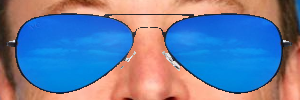
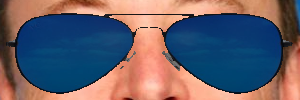
have sunglasses on elon musk lol

diff --git a/week_1/Script_file/4_Using_Arithmetic_Operations.py b/week_1/Script_file/4_Using_Arithmetic_Operations.py
@@ -3,58 +3,83 @@ import cv2
 import numpy as np
 from dataPath import DATA_PATH
 
+#define a global extra alpha to apply
+alpha = .5
 # Load the Face Image
-faceImagePath = DATA_PATH + "/images/musk.jpg"
-faceImage = cv2.imread(faceImagePath)
+pathToFace = DATA_PATH + "/images/musk.jpg"
+faceImage = cv2.imread(pathToFace)
 
 # Load the Sunglass image with Alpha channel
 # (http://pluspng.com/sunglass-png-1104.html)
-glassimagePath = DATA_PATH + "/images/sunglass.png"
-glassPNG = cv2.imread(glassimagePath,-1)
+pathToSunglasses = DATA_PATH + "/images/sunglass.png"
+sunglassesPNG = cv2.imread(pathToSunglasses, cv2.IMREAD_UNCHANGED)
 
 # Resize the image to fit over the eye region
-glassPNG = cv2.resize(glassPNG,(300,100))
-print("image Dimension ={}".format(glassPNG.shape))
+sunglassesPNG = cv2.resize(sunglassesPNG,(300,100))
+print("image Dimension ={}".format(sunglassesPNG.shape))
 
 # Separate the Color and alpha channels
-glassBGR = glassPNG[:,:,0:3]
-glassMask1 = glassPNG[:,:,3]
+sunglassBGR = sunglassesPNG[:,:,0:3]
+sunglassBGR = sunglassBGR / 255
+sunglassMaskAlpha = sunglassesPNG[:,:,3]
+sunglassMaskAlpha = (sunglassMaskAlpha / 255) * .5
 
 # Make the dimensions of the mask same as the input image.
 # Since Face Image is a 3-channel image, we create a 3 channel image for the mask
-glassMask = cv2.merge((glassMask1,glassMask1,glassMask1))
+sunGlassMask = cv2.merge((sunglassMaskAlpha,sunglassMaskAlpha,sunglassMaskAlpha))
 
-# Make the values [0,1] since we are using arithmetic operations
-glassMask = np.uint8(glassMask/255)
+#apply the alpha mask to the sunglasses
+sunGlassesWithAlpha = sunglassBGR * sunGlassMask
 
-# Make a copy
-faceWithGlassesArithmetic = faceImage.copy()
+cv2.imshow("sun glasses alpha",sunGlassMask  )
+cv2.imshow("sunglasses", sunGlassesWithAlpha)
 
-# Get the eye region from the face image
-eyeROI= faceWithGlassesArithmetic[150:250,140:440]
+# get the eye region of interest
+eyeROI = faceImage[150:250,140:440]
+eyeROI = eyeROI / 255
+cv2.imshow("eye roi", eyeROI)
 
-# Use the mask to create the masked eye region
-maskedEye = cv2.multiply(eyeROI,(1-  glassMask ))
+#apply alpha to eyeroi
+eyeROIWithAlpha = (1 - sunGlassMask) * eyeROI
+cv2.imshow("eyeroi with alpha", eyeROIWithAlpha)
 
-# Use the mask to create the masked sunglass region
-maskedGlass = cv2.multiply(glassBGR,glassMask)
+#add them together
+eyesWithGlasses = eyeROIWithAlpha + sunGlassesWithAlpha
+cv2.imshow("eyes with glasses", eyesWithGlasses)
 
-# Combine the Sunglass in the Eye Region to get the augmented image
-eyeRoiFinal = cv2.add(maskedEye, maskedGlass)
-
-cv2.imwrite("results/maskedEyeRegion.png",maskedEye)
-cv2.imwrite("results/maskedSunglassRegion.png",maskedGlass)
-cv2.imwrite("results/augmentedEyeAndSunglass.png",eyeRoiFinal)
-
-# Replace the eye ROI with the output from the previous section
-faceWithGlassesArithmetic[150:250,140:440]=eyeRoiFinal
-
-cv2.imwrite("results/withSunglasses.png",faceWithGlassesArithmetic)
-
-cv2.imshow("Masked Eye Region",maskedEye)
-cv2.imshow("Masked Sunglass Region",maskedGlass)
-cv2.imshow("Augmented Eye and Sunglass",eyeRoiFinal)
-cv2.imshow("With Sunglasses",faceWithGlassesArithmetic)
+faceImage[150:250,140:440] = np.uint8(eyesWithGlasses * 255)
+cv2.imshow("result", faceImage)
+# # Make the values [0,1] since we are using arithmetic operations
+# glassMask = np.uint8(glassMask/255)
+#
+# # Make a copy
+# faceWithGlassesArithmetic = faceImage.copy()
+#
+# # Get the eye region from the face image
+# eyeROI= faceWithGlassesArithmetic[150:250,140:440]
+# gm2 = np.where(glassMask == 1, .5, 0)
+# # Use the mask to create the masked eye region
+# maskedEye = cv2.multiply(eyeROI,(1-  gm2 ))
+#
+# # Use the mask to create the masked sunglass region
+# maskedGlass = cv2.multiply(cv2.multiply(glassBGR, .5),glassMask)
+#
+# # Combine the Sunglass in the Eye Region to get the augmented image
+# eyeRoiFinal = cv2.add(maskedEye, maskedGlass)
+#
+# cv2.imwrite("results/maskedEyeRegion.png",maskedEye)
+# cv2.imwrite("results/maskedSunglassRegion.png",maskedGlass)
+# cv2.imwrite("results/augmentedEyeAndSunglass.png",eyeRoiFinal)
+#
+# # Replace the eye ROI with the output from the previous section
+# faceWithGlassesArithmetic[150:250,140:440]=eyeRoiFinal
+#
+# cv2.imwrite("results/withSunglasses.png",faceWithGlassesArithmetic)
+#
+# cv2.imshow("Masked Eye Region",maskedEye)
+# cv2.imshow("Masked Sunglass Region",maskedGlass)
+# cv2.imshow("Augmented Eye and Sunglass",eyeRoiFinal)
+# cv2.imshow("With Sunglasses",faceWithGlassesArithmetic)
 
 while True:
     c = cv2.waitKey(20)
